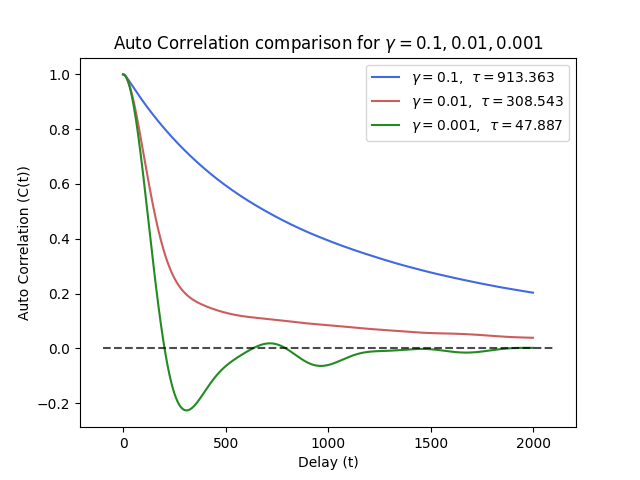
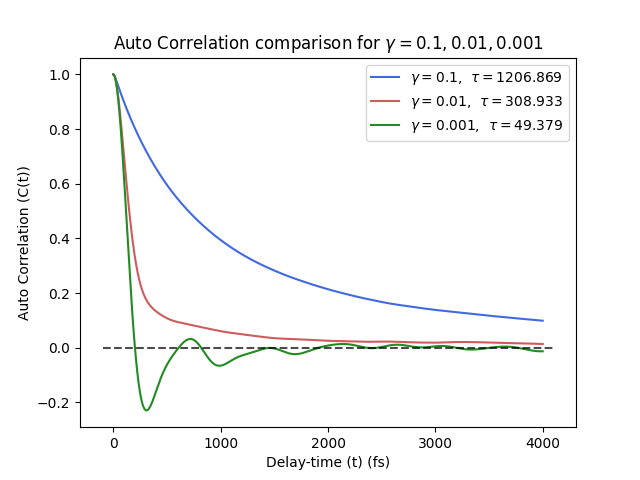
updated req and readme

diff --git a/src/fit.py b/src/fit.py
@@ -3,20 +3,47 @@ import matplotlib.pyplot as plt
 import json
 
 
-def file_ret_energy(temp=300.0, seed=0):
-    filename = f'./data/energies_temp{temp}_{seed}.json'
+# def file_ret_energy(temp=300.0, seed=0):
+#     filename = f'./data/energies_temp{temp}_{seed}.json'
 
-    with open(filename, "r") as f:
-        data = json.load(f)
+#     with open(filename, "r") as f:
+#         data = json.load(f)
 
-    energies = np.array(data["Energies"])
-    temp = np.array(data["temp"])
-    a_list = np.array(data["a_list"])
+#     energies = np.array(data["Energies"])
+#     temp = np.array(data["temp"])
+#     a_list = np.array(data["a_list"])
 
-    return energies, a_list, temp
+#     return energies, a_list, temp
+
+def file_ret_energy(temperature, n_seeds):
+    energies_list = []
+    a_list = None
+ 
+    for seed in range(n_seeds):
+        filename = f'./data/energies_temp{temperature}_{seed}.json'
+ 
+        try:
+            with open(filename, "r") as f:
+                data = json.load(f)
+ 
+            energies_list.append(np.array(data["Energies"]))
+            if a_list is None:
+                a_list = np.array(data["a_list"])
+ 
+        except FileNotFoundError:
+            print(f"Warning: File {filename} not found. Skipping seed {seed}.")
+            continue
+ 
+    # Average and compute std over all seeds
+    energies_array = np.array(energies_list)
+    energies_avg = np.mean(energies_array, axis=0)
+    energies_std = np.std(energies_array, axis=0)
+ 
+    return a_list, energies_avg, temperature, energies_std
 
 
-def local_curve_fit(temp=300.0, seed=0, n_neighbors=2):
+
+def local_curve_fit(temp=300.0, n_seeds=1, n_neighbors=2):
     """
     Fit a parabola locally around the discrete minimum.
 
@@ -24,7 +51,7 @@ def local_curve_fit(temp=300.0, seed=0, n_neighbors=2):
     use 2 points on each side of the minimum if available,
     i.e. typically 5 points total.
     """
-    energies, a_list, temp = file_ret_energy(temp, seed)
+    a_list, energies, temp, energies_std = file_ret_energy(temp, n_seeds=n_seeds)
 
     # 1. find discrete minimum
     i_min = np.argmin(energies)
@@ -74,11 +101,11 @@ if __name__ == '__main__':
 
     sigma = 3.304
 
-    fit50 = local_curve_fit(50.0)
-    fit300 = local_curve_fit(300.0)
-    fit1000 = local_curve_fit(1000.0)
-    fit150 = local_curve_fit(150.0)
-    fit600 = local_curve_fit(600.0)
+    fit50 = local_curve_fit(50.0, n_seeds=2)
+    fit300 = local_curve_fit(300.0, n_seeds=2)
+    fit1000 = local_curve_fit(1000.0, n_seeds=2)
+    fit150 = local_curve_fit(150.0, n_seeds=2)
+    fit600 = local_curve_fit(600.0, n_seeds=2)
 
     # raw data
     energies50, a_list50 = fit50["energies"], fit50["a_list"]
@@ -115,11 +142,6 @@ if __name__ == '__main__':
     plt.plot(a_plot600, E_plot600, color='Violet', label='local fit T = 50 K')
 
     # mark fitted minima
-    plt.axvline(equil50, color='ForestGreen', linestyle='--', alpha=0.5)
-    plt.axvline(equil300, color='RoyalBlue', linestyle='--', alpha=0.5)
-    plt.axvline(equil1000, color='IndianRed', linestyle='--', alpha=0.5)
-    plt.axvline(equil150, color='Orange', linestyle='--', alpha=0.5)
-    plt.axvline(equil600, color='Violet', linestyle='--', alpha=0.5)
 
     plt.xlabel('Lattice parameter (Å)')
     plt.ylabel('Total Energy (eV)')
@@ -154,8 +176,9 @@ if __name__ == '__main__':
     print(20 * ' ' + f'a / sigma = {equil1000 / sigma:.6f}')
     print(60 * '-')
 
-    plt.plot([50, 150, 300, 600, 1000], [equil50, equil150, equil300, equil600, equil1000], color = 'IndianRed')
-    plt.xlabel(fr'Temperatures ($^\circ K $)')
+    plt.plot([50, 150, 300, 600, 1000], [equil50, equil150, equil300, equil600, equil1000], color = 'IndianRed', marker = 'o')
+    plt.xlabel(fr'Temperatures ($K$)')
     plt.ylabel(fr'Equilibrium Lattice parameter ($Å$)')
     plt.title('Equilibrium Lattice parameter as a function of temperature')
+    plt.savefig('./figs/a_vs_temp.png')
     plt.show()

diff --git a/src/plots.py b/src/plots.py
@@ -4,41 +4,81 @@ import numpy as np
 from scipy.integrate import simpson
 from fit import file_ret_energy
 
-def file_ret(gamma, fast = False):
-    if fast:
-        filename = f'./data/autocor_gamma{gamma}_fast.json'
-    else:
-        filename = f'./data/autocor_gamma{gamma}.json'
+def file_ret(gamma, n_seeds, fast=False):
+    temp_hists = []
+    C_values = []
+    tau_values = []
+    t = None
+ 
+    for seed in range(n_seeds):
+        if fast:
+            filename = f'./data/autocor_gamma{gamma}_fast{seed}.json'
+        else:
+            filename = f'./data/autocor_gamma{gamma}{seed}.json'
+ 
+        try:
+            with open(filename, "r") as f:
+                data = json.load(f)
+ 
+            temp_hists.append(np.array(data["temp_hist"]))
+            C_values.append(np.array(data["C"]))
+            if t is None:
+                t = np.array(data["t"])
+            tau_values.append(np.array(data["tau"]))
+ 
+        except FileNotFoundError:
+            print(f"Warning: File {filename} not found. Skipping seed {seed}.")
+            continue
+ 
+    # Average over all seeds
+    temp_hist_avg = np.mean(temp_hists, axis=0)
+    C_avg = np.mean(C_values, axis=0)
+    tau_values = np.array(tau_values)
+    tau = np.mean(tau_values)
+ 
+    return temp_hist_avg, C_avg, t, tau
 
-    with open(filename, "r") as f:
-        data = json.load(f)
-    temp_hist = np.array(data["temp_hist"])
-    C = np.array(data["C"])
-    t = np.array(data["t"])
-    tau = np.array(data["tau"])
-
-    return temp_hist, C, t, tau
+def file_ret_MSD(n_seeds):
+    MSD_list = []
+    Temps = None
+ 
+    for seed in range(n_seeds):
+        filename = f'./data/MSD_list{seed}.json'
+ 
+        try:
+            with open(filename, "r") as f:
+                data = json.load(f)
+ 
+            MSD_list.append(np.array(data["MSD"]))
+            if Temps is None:
+                Temps = np.array(data["Temps"])
+ 
+        except FileNotFoundError:
+            print(f"Warning: File {filename} not found. Skipping seed {seed}.")
+            continue
+ 
+    # Average and compute std over all seeds
+    MSD_array = np.array(MSD_list)
+    MSD_avg = np.mean(MSD_array, axis=0)
+    MSD_std = np.std(MSD_array, axis=0)
+ 
+    return MSD_avg, MSD_std, Temps
 
 
 if __name__ == '__main__':
 
-    temp01, C01, t01, tau01 = file_ret(0.1, fast=True)
-    temp001, C001, t001, tau001 = file_ret(0.01, True)
-    temp0001, C0001, t0001, tau0001 = file_ret(0.001,True)
+    temp01, C01, t01, tau01 = file_ret(0.1, 3, fast=True)
+    temp001, C001, t001, tau001 = file_ret(0.01, 3, fast= True)
+    temp0001, C0001, t0001, tau0001 = file_ret(0.001, 3, fast = True)
 
-
-    with open('./data/MSD_list.json', "r") as f:
-        data = json.load(f)
-    MSD_list = np.array(data["MSD"])
-    Temps = np.array(data["Temps"])
-
+    MSD_list, _,  Temps = file_ret_MSD(3)
 
     plt.plot(t01, C01, color = 'RoyalBlue', label = fr'$\gamma = 0.1$,  $\tau = {tau01:.3f}$')
     plt.plot(t001, C001, color = 'IndianRed', label = fr'$\gamma = 0.01$,  $\tau = {tau001:.3f}$')
     plt.plot(t0001, C0001, color = 'ForestGreen', label = fr'$\gamma = 0.001$,  $\tau = {tau0001:.3f}$')
     plt.hlines(0, xmin = t01[0]-100, xmax=t01[-1]+100, linestyles='--', colors='black', alpha = 0.7)
     plt.legend()
-    plt.xlabel(f'Delay (t)')
+    plt.xlabel(f'Delay-time (t) (fs)')
     plt.ylabel(f'Auto Correlation (C(t))')
     plt.title(f'Auto Correlation comparison for $\gamma = 0.1, 0.01, 0.001$')
     plt.savefig('./figs/autocor_aggr.png')
@@ -58,7 +98,7 @@ if __name__ == '__main__':
 
     plt.plot(Temps, MSD_list, color = 'IndianRed', marker = 'o')
     plt.xlabel('Temperature (K)')
-    plt.ylabel('MSD')
+    plt.ylabel(fr'MSD ($Å^2$)')
     plt.title('MSD as a function of temperature')
     plt.savefig('./figs/MSD_plot.png')
     plt.show()

diff --git a/src/MSD.py b/src/MSD.py
@@ -117,7 +117,7 @@ if __name__ == '__main__':
     if args.plot:
         plt.scatter(Temps, MSD_list, color = 'IndianRed')
         plt.xlabel('Temperature (K)')
-        plt.ylabel('Mean-Squared Displacement (MSD)')
+        plt.ylabel('Mean-Squared Displacement (MSD) (Å)')
         plt.title(f'MSD over {len(Temps)} temperatures form 100 - 1000 K')
         plt.show()
 

diff --git a/src/sim_fast.py b/src/sim_fast.py
@@ -372,10 +372,10 @@ if __name__ == '__main__':
     m = 103.6 * u
 
     T = 10000
-    t_delay = 2000
+    t_delay = 4000
 
     if gamma == 0.001:
-        thermalization = 3000
+        thermalization = 4000
     elif gamma == 0.01:
         thermalization = 2000
     else:

diff --git a/README.md b/README.md
@@ -1,36 +1,119 @@
 # Molecular Dynamics
-
+ 
 This project simulates Molecular Dynamics for a Gd crystal with 900 atoms.
-Verlet velocity equations are used to solve for velocity (momentum) and position. 
-Langevines Dynamics is used in addition to add a stochastic ''kick'' to the system. 
-This creates the 5 step process modelled in this project.
-The auto-correlation $C(t)$ is solved for along with the integral $\tau = \int_0^\infty C(t) dt$ 
-for the correlation time. Thi is the used in order obtain the sampling frequency for the next task.
-That being estimating the Mean-Squared Displacement for a series of different temperatures ranging from 
-$100^\circ K \to 1000^\circ K$. Finally the lattice parameter $a$ was examined. The total energy of the system was recorded for a series of 
+Verlet velocity equations are used to solve for velocity (momentum) and position.
+Langevin Dynamics is used in addition to add a stochastic "kick" to the system.
+This creates the 5-step process modelled in this project.
+The auto-correlation $C(t)$ is solved for along with the integral $\tau = \int_0^\infty C(t) dt$
+for the correlation time. This is then used in order to obtain the sampling frequency for the next task.
+That being estimating the Mean-Squared Displacement for a series of different temperatures ranging from
+$100^\circ K \to 1000^\circ K$. Finally the lattice parameter $a$ was examined. The total energy of the system was recorded for a series of
 lattice parameters ranging from $0.9\sigma \to 1.3\sigma$. This was done at three fixed temperatures.
-
+ 
+## Project Structure
+ 
+```
+.
+├── sim.py            # Original MD simulation (brute-force pairwise forces)
+├── sim_fast.py       # Optimized MD simulation with precomputed neighbor lists
+├── MSD.py            # Mean-Squared Displacement over a range of temperatures
+├── energies.py       # Total energy vs lattice parameter at fixed temperatures
+├── fit.py            # Quadratic fitting to find equilibrium lattice parameter
+├── plots.py          # Aggregated plotting of all results
+├── demo.py           # 3D visualization of the Gd crystal structure
+├── requirements.txt  # Python dependencies
+├── data/             # JSON output files (auto-created)
+└── figs/             # Saved figures (auto-created)
+```
+ 
+## Physical Model
+ 
+The simulation models a Gadolinium (Gd) crystal using an HCP-like supercell (9 × 5 × 5 unit cells, 4 atoms per cell = 900 atoms). Interatomic forces are computed via a shifted Lennard-Jones potential with parameters $\sigma = 3.304$ Å and $\epsilon = 0.1136$ eV. Periodic boundary conditions are enforced through the minimum image convention. Temperature control is achieved through Langevin dynamics, where a friction term and stochastic noise are coupled to the Verlet velocity integrator. Random numbers are generated using a Numba-JIT-compiled Box-Muller transform.
+ 
 ## Pipeline
-To run the code properly, start by installing `requirements.txt` by 
-
+ 
+To run the code properly, start by installing `requirements.txt`:
+ 
 ```bash
 pip install -r requirements.txt
 ```
-In the your virtual environment.
-
-The files `sim.py` and `sim_fast.py` perform the exact same task. however, `sim_fast.py` utilizes a precomputed 
-neighbor list for all atoms, this significantly reduces compute time and yields similar results as `sim.py`, therefore `sim_fast.py` is used in all other files in the project. ´sim_fast.py´ is also the point of entry in the project and performs the first task by calculating the auto correlation and the correlation time. Run it by
+ 
+### Task 1 — Auto-Correlation and Correlation Time
+ 
+The files `sim.py` and `sim_fast.py` perform the exact same task. However, `sim_fast.py` utilizes a precomputed
+neighbor list for all atoms, which significantly reduces compute time and yields similar results as `sim.py`. Therefore `sim_fast.py` is used in all other files in the project. `sim_fast.py` is also the point of entry in the project and performs the first task by calculating the auto-correlation and the correlation time. Run it by:
+ 
 ```bash
-python /src/sim_fast.py --y 0.01 --io
+python src/sim_fast.py --y 0.01 --io
 ```
-`--io` saves the results and ´--y´ specifies the damping parameter $\gamma$. Additionally ´--plot´ can be used to plot the results directly and ´--T´ can be used to specify the temperature which has a default value of $300^\circ K$.
-
-To evaluate the Mean-Squared Displacement run `MSD.py`. Note, this code essentially does the same code as `sim_fast.py` over an array of different temperatures, specified by `--points`, thus scaling up the compute time with numner of temperature points.
+ 
+| Flag | Description |
+|------|-------------|
+| `--io` | Save thermalization and auto-correlation results to JSON |
+| `--y` | Damping parameter $\gamma$ (default: 0.01) |
+| `--T` | System temperature in K (default: 300) |
+| `--plot` | Show plots after the run |
+| `--seed` | Random seed for reproducibility (default: 0) |
+ 
+### Task 2 — Mean-Squared Displacement
+ 
+To evaluate the Mean-Squared Displacement run `MSD.py`. This code essentially runs the same simulation as `sim_fast.py` over an array of different temperatures (specified by `--points`), thus scaling up the compute time with the number of temperature points.
+ 
 ```bash
 python src/MSD.py --points 7 --plot --io
-
 ```
-Runs calculates the MSD for 7 temperatures equally divided across the range $100^\circ K \to 1000^\circ K$, showing the plot and savingf the results to JSON.
-
-
-Expermiments were conducted by running all three major tasks (varying $\gamma$, varying $T$, and varying $a$) a number of times and the averaging the results.
+ 
+This calculates the MSD for 7 temperatures equally divided across the range $100^\circ K \to 1000^\circ K$, shows the plot, and saves the results to JSON.
+ 
+| Flag | Description |
+|------|-------------|
+| `--points` | Number of temperature points (default: 5) |
+| `--plot` | Show MSD vs temperature plot |
+| `--io` | Save MSD results to JSON |
+| `--seed` | Random seed (default: 0) |
+ 
+### Task 3 — Equilibrium Lattice Parameter
+ 
+Run `energies.py` to sweep the lattice parameter $a$ from $0.95\sigma$ to $1.3\sigma$ at a fixed temperature and record the total energy at each value.
+ 
+```bash
+python src/energies.py --T 300 --step 0.1
+```
+ 
+| Flag | Description |
+|------|-------------|
+| `--T` | Fixed temperature in K (default: 300) |
+| `--step` | Step size for lattice parameter sweep as fraction of $\sigma$ (default: 0.1) |
+| `--plot` | Show energy vs lattice parameter scatter plot |
+| `--noio` | Disable JSON output |
+| `--seed` | Random seed (default: 0) |
+ 
+Then run `fit.py` to perform a local quadratic fit around the energy minimum and extract the equilibrium lattice parameter for each temperature:
+ 
+```bash
+python src/fit.py
+```
+ 
+### Aggregated Plots
+ 
+After running the above tasks with multiple seeds, use `plots.py` to load results and produce comparison figures (auto-correlation for different $\gamma$, temperature histories, MSD vs temperature, energy vs lattice parameter):
+ 
+```bash
+python src/plots.py
+```
+ 
+### Crystal Visualization
+ 
+`demo.py` generates a 3D rendering of the Gd crystal structure:
+ 
+```bash
+python src/demo.py
+```
+ 
+## Reproducibility
+ 
+Experiments were conducted by running all three major tasks (varying $\gamma$, varying $T$, and varying $a$) a number of times with different random seeds, then averaging the results. The `--seed` flag is available on all simulation scripts for this purpose.
+ 
+## Output
+ 
+All simulation results are saved as JSON files in the `data/` directory. All figures are saved as PNG images in the `figs/` directory. Both directories are created automatically on first run.
